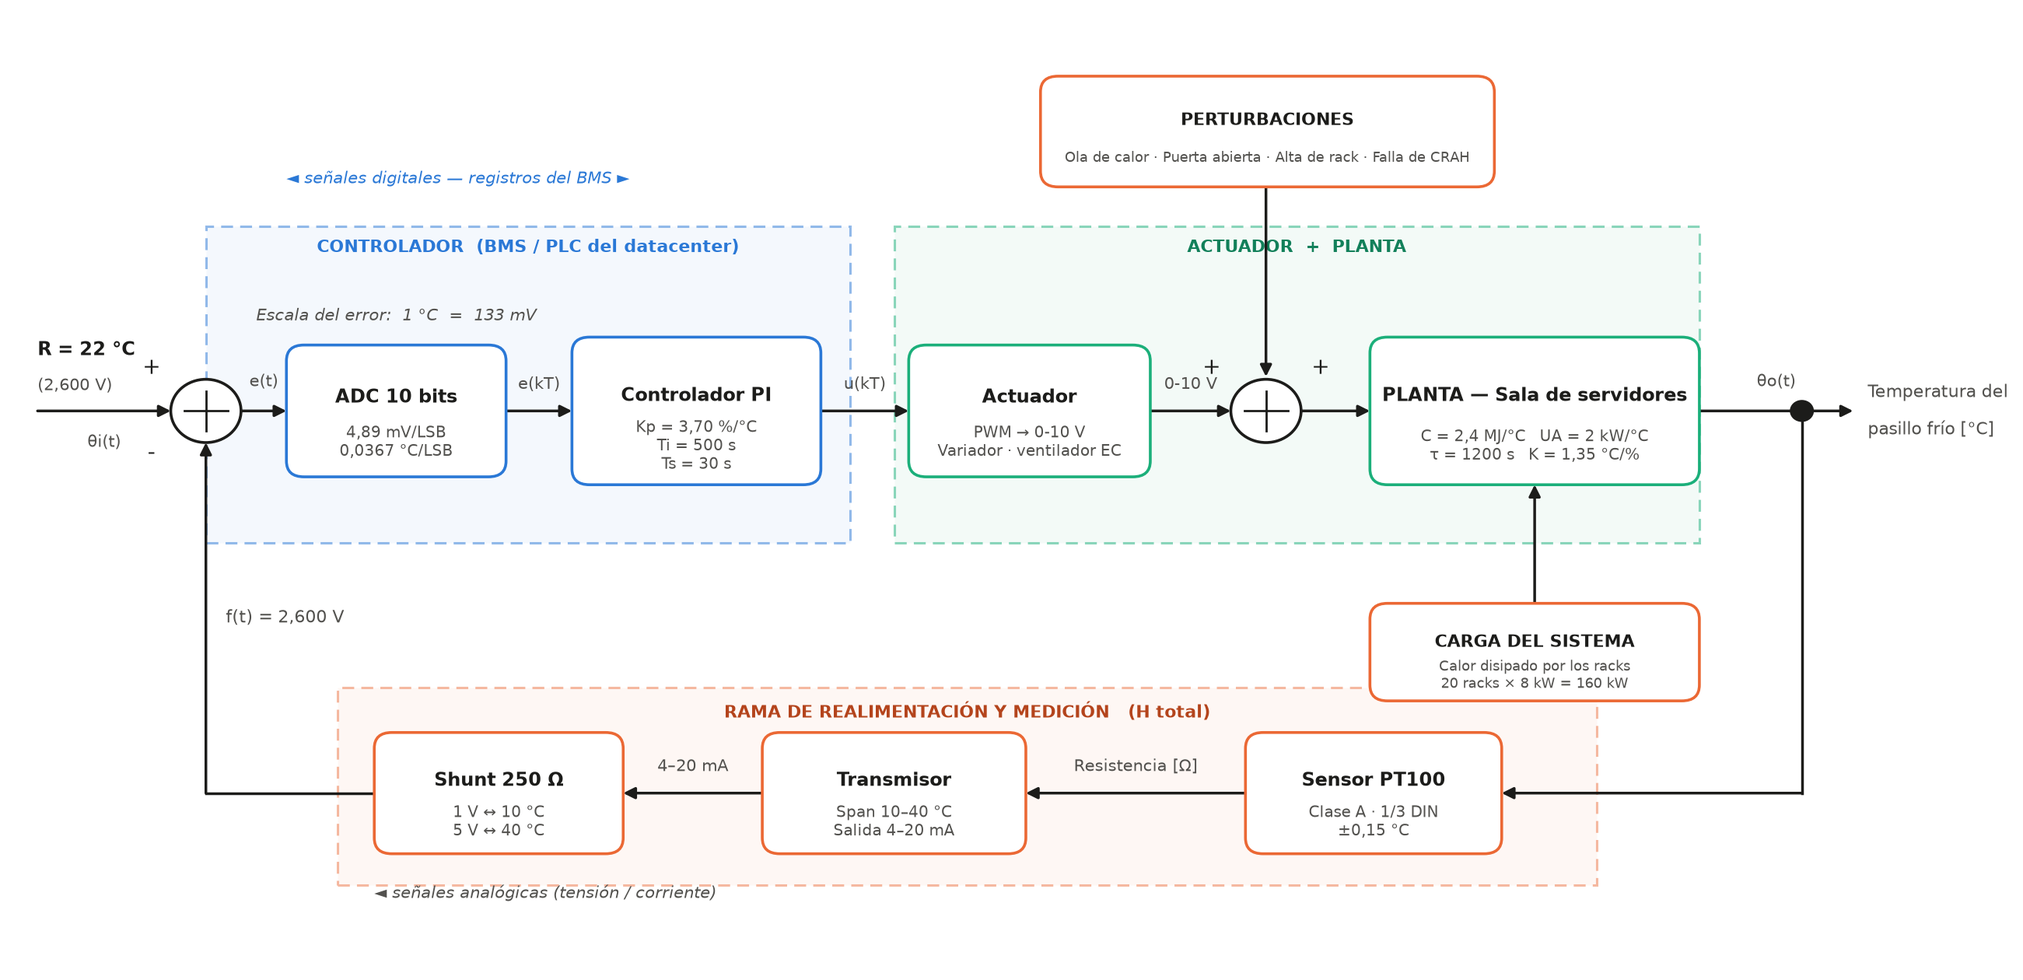
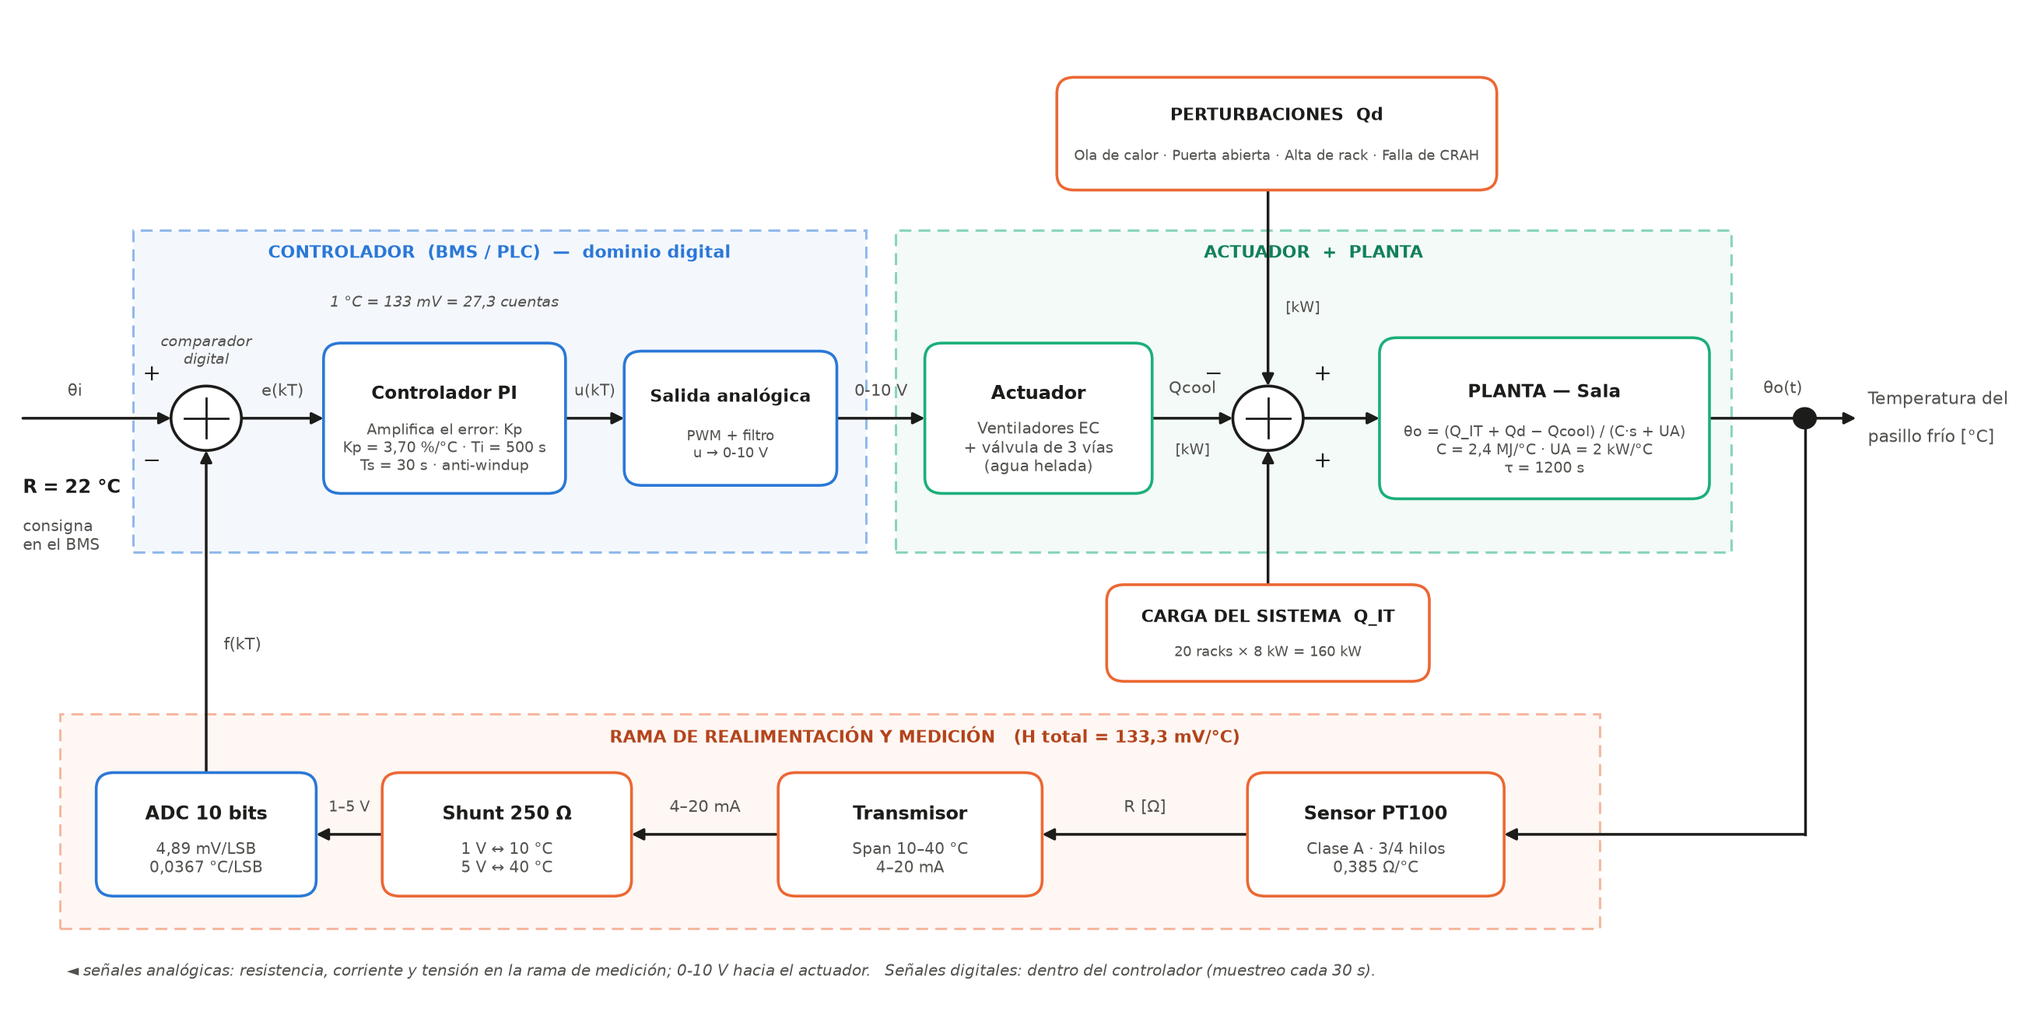
Correcciones de la auditoría
- Zona de falla (fuera de 18-27 °C) en el tablero de control.
- Ensayos de sensibilidad: aporte del anti-windup y tiempo de entrada de la unidad N+1.
- Diagrama de bloques con comparador digital, actuador sin variador y balance en kW.
- README actualizado.

diff --git a/diagrama_bloques.py b/diagrama_bloques.py
@@ -1,5 +1,6 @@
 """Diagrama de bloques del sistema de control termico de la sala de servidores."""
 
+import os
 import matplotlib
 matplotlib.use("Agg")
 import matplotlib.pyplot as plt
@@ -15,9 +16,9 @@ FONDO_CTRL = "#eaf2fc"
 FONDO_PROC = "#e9f7f1"
 FONDO_MED = "#fdeee7"
 
-fig, ax = plt.subplots(figsize=(13.2, 6.4), dpi=200)
+fig, ax = plt.subplots(figsize=(13.2, 6.6), dpi=200)
 ax.set_xlim(0, 132)
-ax.set_ylim(-2, 70)
+ax.set_ylim(-3, 70)
 ax.axis("off")
 
 
@@ -25,9 +26,9 @@ def bloque(x, y, w, h, texto, sub="", fondo="white", borde=BORDE, fs=8.5):
     ax.add_patch(FancyBboxPatch((x, y), w, h, boxstyle="round,pad=0,rounding_size=1.2",
                                 linewidth=1.3, edgecolor=borde, facecolor=fondo, zorder=3))
     if sub:
-        ax.text(x + w / 2, y + h * 0.60, texto, ha="center", va="center",
+        ax.text(x + w / 2, y + h * 0.66, texto, ha="center", va="center",
                 fontsize=fs, color=TINTA, zorder=4, weight="bold")
-        ax.text(x + w / 2, y + h * 0.26, sub, ha="center", va="center",
+        ax.text(x + w / 2, y + h * 0.30, sub, ha="center", va="center",
                 fontsize=fs - 1.4, color=GRIS, zorder=4)
     else:
         ax.text(x + w / 2, y + h / 2, texto, ha="center", va="center",
@@ -35,7 +36,8 @@ def bloque(x, y, w, h, texto, sub="", fondo="white", borde=BORDE, fs=8.5):
     return (x, y, w, h)
 
 
-def suma(x, y, r=2.4, signos=(("+", -1, 1), ("-", -1, -1))):
+def suma(x, y, signos, r=2.4):
+    """signos: lista de (signo, dx, dy) con la posicion relativa de cada signo."""
     ax.add_patch(Circle((x, y), r, linewidth=1.3, edgecolor=TINTA,
                         facecolor="white", zorder=4))
     ax.plot([x - r * 0.62, x + r * 0.62], [y, y], color=TINTA, lw=1.0, zorder=5)
@@ -47,116 +49,123 @@ def suma(x, y, r=2.4, signos=(("+", -1, 1), ("-", -1, -1))):
 
 
 def flecha(p0, p1, color=TINTA, etiqueta="", et_dy=1.8, et_dx=0.0, fs=7.6,
-           estilo="-|>", ls="-", et_color=None):
+           estilo="-|>", et_color=None, ha="center"):
     ax.add_patch(FancyArrowPatch(p0, p1, arrowstyle=estilo, mutation_scale=11,
                                  linewidth=1.25, color=color, zorder=2,
-                                 linestyle=ls, shrinkA=0, shrinkB=0))
+                                 shrinkA=0, shrinkB=0))
     if etiqueta:
         mx, my = (p0[0] + p1[0]) / 2 + et_dx, (p0[1] + p1[1]) / 2 + et_dy
-        ax.text(mx, my, etiqueta, ha="center", va="center", fontsize=fs,
+        ax.text(mx, my, etiqueta, ha=ha, va="center", fontsize=fs,
                 color=et_color or GRIS, zorder=5)
 
 
-def linea(p0, p1, color=TINTA, ls="-"):
-    ax.plot([p0[0], p1[0]], [p0[1], p1[1]], color=color, lw=1.25, zorder=2, ls=ls)
+def linea(p0, p1, color=TINTA):
+    ax.plot([p0[0], p1[0]], [p0[1], p1[1]], color=color, lw=1.25, zorder=2)
 
 
 # ---------------------------------------------------------------- agrupadores
-ax.add_patch(Rectangle((13, 30), 44, 24, linewidth=1.1, edgecolor=AZUL,
+ax.add_patch(Rectangle((8, 30), 50, 24, linewidth=1.1, edgecolor=AZUL,
                        facecolor=FONDO_CTRL, alpha=0.5, zorder=0, ls=(0, (5, 3))))
-ax.text(35, 52.4, "CONTROLADOR  (BMS / PLC del datacenter)", ha="center", va="center",
+ax.text(33, 52.3, "CONTROLADOR  (BMS / PLC)  —  dominio digital", ha="center", va="center",
         fontsize=8, color=AZUL, weight="bold", zorder=1)
 
-ax.add_patch(Rectangle((60, 30), 55, 24, linewidth=1.1, edgecolor=AGUA,
+ax.add_patch(Rectangle((60, 30), 57, 24, linewidth=1.1, edgecolor=AGUA,
                        facecolor=FONDO_PROC, alpha=0.5, zorder=0, ls=(0, (5, 3))))
-ax.text(87.5, 52.4, "ACTUADOR  +  PLANTA", ha="center", va="center",
+ax.text(88.5, 52.3, "ACTUADOR  +  PLANTA", ha="center", va="center",
         fontsize=8, color="#12805a", weight="bold", zorder=1)
 
-ax.add_patch(Rectangle((22, 4), 86, 15, linewidth=1.1, edgecolor=NARANJA,
+ax.add_patch(Rectangle((3, 2), 105, 16, linewidth=1.1, edgecolor=NARANJA,
                        facecolor=FONDO_MED, alpha=0.45, zorder=0, ls=(0, (5, 3))))
-ax.text(65, 17.2, "RAMA DE REALIMENTACIÓN Y MEDICIÓN   (H total)", ha="center", va="center",
-        fontsize=8, color="#b4441c", weight="bold", zorder=1)
+ax.text(62, 16.3, "RAMA DE REALIMENTACIÓN Y MEDICIÓN   (H total = 133,3 mV/°C)",
+        ha="center", va="center", fontsize=8, color="#b4441c", weight="bold", zorder=1)
 
 # ---------------------------------------------------------------- lazo directo
 y = 40.0
 
-ax.text(1.5, y + 4.6, "R = 22 °C", ha="left", va="center", fontsize=8.5,
+ax.text(0.5, y - 5.2, "R = 22 °C", ha="left", va="center", fontsize=8.5,
         color=TINTA, weight="bold")
-ax.text(1.5, y + 1.9, "(2,600 V)", ha="left", va="center", fontsize=7.6, color=GRIS)
-flecha((1.5, y), (10.6, y), etiqueta="θi(t)", et_dy=-2.4)
+ax.text(0.5, y - 8.8, "consigna\nen el BMS", ha="left", va="center", fontsize=7.2, color=GRIS)
+flecha((0.5, y), (10.6, y), etiqueta="θi", et_dy=2.0, et_dx=-1.5)
 
-sx, sy = suma(13.0, y)
+suma(13.0, y, signos=(("+", -1, 1), ("−", -1, -1)))
+ax.text(13.0, y + 5.0, "comparador\ndigital", ha="center", va="center", fontsize=6.8,
+        color=GRIS, style="italic")
 
-flecha((15.4, y), (18.5, y), etiqueta="e(t)", et_dy=2.2)
-ax.text(26.0, y + 7.2, "Escala del error:  1 °C  =  133 mV", ha="center",
-        va="center", fontsize=7.4, color=GRIS, style="italic")
+flecha((15.4, y), (21.0, y), etiqueta="e(kT)", et_dy=2.0)
 
-bloque(18.5, y - 5.0, 15.0, 10.0, "ADC 10 bits", "4,89 mV/LSB\n0,0367 °C/LSB",
-       fondo="white", borde=AZUL)
-flecha((33.5, y), (38.0, y), etiqueta="e(kT)", et_dy=2.0)
+bloque(21.0, y - 5.6, 16.5, 11.2, "Controlador PI",
+       "Amplifica el error: Kp\nKp = 3,70 %/°C · Ti = 500 s\nTs = 30 s · anti-windup",
+       fondo="white", borde=AZUL, fs=8.3)
+ax.text(29.25, y + 8.6, "1 °C = 133 mV = 27,3 cuentas", ha="center", va="center",
+        fontsize=6.8, color=GRIS, style="italic")
 
-bloque(38.0, y - 5.6, 17.0, 11.2, "Controlador PI", "Kp = 3,70 %/°C\nTi = 500 s\nTs = 30 s",
-       fondo="white", borde=AZUL, fs=8.5)
-flecha((55.0, y), (61.0, y), etiqueta="u(kT)", et_dy=2.0)
+flecha((37.5, y), (41.5, y), etiqueta="u(kT)", et_dy=2.0, fs=7.2)
 
-bloque(61.0, y - 5.0, 16.5, 10.0, "Actuador", "PWM → 0-10 V\nVariador · ventilador EC",
-       fondo="white", borde=AGUA)
-flecha((77.5, y), (83.0, y), etiqueta="0-10 V", et_dy=2.0)
+bloque(41.5, y - 5.0, 14.5, 10.0, "Salida analógica", "PWM + filtro\nu → 0-10 V",
+       fondo="white", borde=AZUL, fs=8.0)
 
-# punto suma de las perturbaciones sobre la planta
-px, py = suma(85.4, y, signos=(("+", -1, 1), ("+", 1, 1)))
-flecha((85.4, y + 17.0), (85.4, y + 2.6))
-bloque(70.0, y + 17.0, 31.0, 8.4, "PERTURBACIONES",
+flecha((56.0, y), (62.0, y), etiqueta="0-10 V", et_dy=2.0)
+
+bloque(62.0, y - 5.6, 15.5, 11.2, "Actuador",
+       "Ventiladores EC\n+ válvula de 3 vías\n(agua helada)", fondo="white", borde=AGUA)
+
+flecha((77.5, y), (83.0, y), etiqueta="Qcool", et_dy=2.2)
+ax.text(80.25, y - 2.4, "[kW]", ha="center", va="center", fontsize=6.8, color=GRIS)
+
+# punto suma del balance termico (en kW)
+suma(85.4, y, signos=(("−", -1, 1), ("+", 1, 1), ("+", 1, -1)))
+
+bloque(71.0, y + 17.0, 30.0, 8.4, "PERTURBACIONES  Qd",
        "Ola de calor · Puerta abierta · Alta de rack · Falla de CRAH",
        fondo="white", borde=NARANJA, fs=8.0)
+flecha((85.4, y + 17.0), (85.4, y + 2.4), etiqueta="[kW]", et_dx=1.2, et_dy=-1.5,
+       fs=6.8, ha="left")
 
-flecha((87.8, y), (92.5, y))
+bloque(74.4, y - 19.6, 22.0, 7.2, "CARGA DEL SISTEMA  Q_IT",
+       "20 racks × 8 kW = 160 kW", fondo="white", borde=NARANJA, fs=7.8)
+flecha((85.4, y - 12.4), (85.4, y - 2.4))
 
-bloque(92.5, y - 5.6, 22.5, 11.2, "PLANTA — Sala de servidores",
-       "C = 2,4 MJ/°C   UA = 2 kW/°C\nτ = 1200 s   K = 1,35 °C/%",
-       fondo="white", borde=AGUA, fs=8.5)
+flecha((87.8, y), (93.0, y))
+
+bloque(93.0, y - 6.0, 22.5, 12.0, "PLANTA — Sala",
+       "θo = (Q_IT + Qd − Qcool) / (C·s + UA)\nC = 2,4 MJ/°C · UA = 2 kW/°C\nτ = 1200 s",
+       fondo="white", borde=AGUA, fs=8.4)
 
 # salida
-flecha((115.0, y), (125.5, y), etiqueta="θo(t)", et_dy=2.2)
-ax.text(126.5, y + 1.4, "Temperatura del", ha="left", va="center", fontsize=7.8, color=GRIS)
-ax.text(126.5, y - 1.4, "pasillo frío [°C]", ha="left", va="center", fontsize=7.8, color=GRIS)
-
-# ---------------------------------------------------------------- carga
-bloque(92.5, y - 22.0, 22.5, 7.4, "CARGA DEL SISTEMA",
-       "Calor disipado por los racks\n20 racks × 8 kW = 160 kW", fondo="white",
-       borde=NARANJA, fs=8.0)
-# La carga (calor de los racks) ingresa a la planta: la flecha apunta hacia la sala.
-flecha((103.75, y - 14.6), (103.75, y - 5.6), estilo="-|>")
+flecha((115.5, y), (125.5, y), etiqueta="θo(t)", et_dy=2.2)
+ax.text(126.3, y + 1.4, "Temperatura del", ha="left", va="center", fontsize=7.8, color=GRIS)
+ax.text(126.3, y - 1.4, "pasillo frío [°C]", ha="left", va="center", fontsize=7.8, color=GRIS)
 
 # ---------------------------------------------------------------- realimentación
-yf = 11.0
+yf = 9.0
 linea((122.0, y), (122.0, yf))
 ax.add_patch(Circle((122.0, y), 0.75, color=TINTA, zorder=5))
 flecha((122.0, yf), (101.5, yf))
 
-bloque(84.0, yf - 4.6, 17.5, 9.2, "Sensor PT100", "Clase A · 1/3 DIN\n±0,15 °C",
+bloque(84.0, yf - 4.6, 17.5, 9.2, "Sensor PT100", "Clase A · 3/4 hilos\n0,385 Ω/°C",
        fondo="white", borde=NARANJA)
-flecha((84.0, yf), (69.0, yf), etiqueta="Resistencia [Ω]", et_dy=2.0)
+flecha((84.0, yf), (70.0, yf), etiqueta="R [Ω]", et_dy=2.0)
 
-bloque(51.0, yf - 4.6, 18.0, 9.2, "Transmisor", "Span 10–40 °C\nSalida 4–20 mA",
+bloque(52.0, yf - 4.6, 18.0, 9.2, "Transmisor", "Span 10–40 °C\n4–20 mA",
        fondo="white", borde=NARANJA)
-flecha((51.0, yf), (41.5, yf), etiqueta="4–20 mA", et_dy=2.0)
+flecha((52.0, yf), (42.0, yf), etiqueta="4–20 mA", et_dy=2.0)
 
-bloque(24.5, yf - 4.6, 17.0, 9.2, "Shunt 250 Ω", "1 V ↔ 10 °C\n5 V ↔ 40 °C",
+bloque(25.0, yf - 4.6, 17.0, 9.2, "Shunt 250 Ω", "1 V ↔ 10 °C\n5 V ↔ 40 °C",
        fondo="white", borde=NARANJA)
+flecha((25.0, yf), (20.5, yf), etiqueta="1–5 V", et_dy=2.0, fs=7.0)
 
-linea((24.5, yf), (13.0, yf))
-flecha((13.0, yf), (13.0, y - 2.4), etiqueta="f(t) = 2,600 V", et_dy=0, et_dx=5.4,
-       fs=7.8)
+bloque(5.5, yf - 4.6, 15.0, 9.2, "ADC 10 bits", "4,89 mV/LSB\n0,0367 °C/LSB",
+       fondo="white", borde=AZUL)
+flecha((13.0, yf + 4.6), (13.0, y - 2.4), etiqueta="f(kT)", et_dx=1.2, et_dy=-2.5,
+       fs=7.6, ha="left")
 
 # leyenda de dominios
-ax.text(24.5, yf - 7.6, "◄ señales analógicas (tensión / corriente)", ha="left",
-        va="center", fontsize=7.6, color=GRIS, style="italic")
-ax.text(18.5, 57.6, "◄ señales digitales — registros del BMS ►", ha="left",
-        va="center", fontsize=7.6, color=AZUL, style="italic")
+ax.text(3.5, -1.2, "◄ señales analógicas: resistencia, corriente y tensión en la rama de "
+        "medición; 0-10 V hacia el actuador.   Señales digitales: dentro del controlador "
+        "(muestreo cada 30 s).", ha="left", va="center", fontsize=7.2, color=GRIS,
+        style="italic")
 
 fig.tight_layout()
-import os
 fig.savefig(os.path.join(os.path.dirname(os.path.abspath(__file__)), "g0_diagrama_bloques.png"),
             bbox_inches="tight", facecolor="white")
 print("OK")

diff --git a/simulacion_crah.py b/simulacion_crah.py
@@ -42,7 +42,7 @@ C_TERM = 2.4e6         # Capacidad termica efectiva de la sala [J/C] (aire + rac
 UA = 2.0e3             # Conductancia hacia el resto del edificio [W/C]
 Q_IT_NOM = 160e3       # Carga termica IT nominal [W] = 20 racks x 8 kW
 Q_COOL_MAX = 270e3     # Capacidad frigorifica activa [W] = 3 CRAH x 90 kW (+1 en reserva N+1)
-T_AMB_NOM = 25.0       # Temperatura del recinto contiguo / plenum de retorno [C]
+T_AMB_NOM = 25.0       # Temperatura del entorno de la sala (recintos contiguos) [C]
 T_INICIAL = 26.5       # Temperatura inicial de la sala [C]
 
 # TAU = C/UA = 1200 s ; ganancia estatica respecto de u: K = Q_COOL_MAX/(100*UA)
@@ -85,7 +85,11 @@ def cuantizar(v):
     return codigo, codigo * V_REF_ADC / niveles
 
 
-def zona(err_abs):
+def zona(err_abs, t_med=None):
+    """Zona de operacion (Tabla 2). La zona de falla depende de la temperatura medida:
+    fuera del rango recomendado ASHRAE (18-27 C), sin importar el error."""
+    if t_med is not None and not (ASHRAE_MIN <= t_med <= ASHRAE_MAX):
+        return "ZONA DE FALLA"
     if err_abs <= BANDA_NORMAL:
         return "NORMALIDAD"
     if err_abs <= BANDA_ALARMA:
@@ -101,17 +105,19 @@ T_OLA_CALOR = 2700.0    # 45 min
 T_ALTA_RACK = 6000.0    # 100 min
 T_PUERTA = 9000.0       # 150 min
 T_FALLA_CRAH = 11400.0  # 190 min
+T_CONMUTACION_N1 = 300.0  # Tiempo hasta que entra en servicio la unidad de reserva N+1 [s]
 
 
-def perturbaciones(t):
+def perturbaciones(t, t_conmutacion=T_CONMUTACION_N1):
     """Devuelve (T_amb, Q_extra_IT, Q_cool_max_disponible) para el instante t [s]."""
     t_amb = T_AMB_NOM
     q_extra = 0.0
     factor_capacidad = 1.0
     unidades = 3.0
 
-    # (a) EXTERNA - Ola de calor: la temperatura exterior sube 13 C en rampa de 10 min.
-    #     Ademas degrada el intercambio en el condensador: -12 % de capacidad frigorifica.
+    # (a) EXTERNA - Ola de calor: el calor exterior eleva 13 C la temperatura del entorno
+    #     de la sala (T_amb, 25 -> 38 C) en rampa de 10 min. Ademas degrada el
+    #     intercambio en el condensador: -12 % de capacidad frigorifica.
     if t >= T_OLA_CALOR:
         avance = min(1.0, (t - T_OLA_CALOR) / 600.0)
         t_amb = T_AMB_NOM + 13.0 * avance
@@ -125,9 +131,9 @@ def perturbaciones(t):
     if T_PUERTA <= t < T_PUERTA + 90.0:
         q_extra += 25e3
 
-    # (d) INTERNA - Falla de 1 de los 3 CRAH durante 300 s, hasta que arranca la
-    #     unidad redundante N+1.
-    if T_FALLA_CRAH <= t < T_FALLA_CRAH + 300.0:
+    # (d) INTERNA - Falla de 1 de los 3 CRAH hasta que arranca la unidad redundante N+1
+    #     (t_conmutacion segundos despues de la falla).
+    if T_FALLA_CRAH <= t < T_FALLA_CRAH + t_conmutacion:
         unidades = 2.0
 
     q_max = Q_COOL_MAX * factor_capacidad * (unidades / 3.0)
@@ -138,8 +144,14 @@ def perturbaciones(t):
 # 3. LAZO DE CONTROL
 # ----------------------------------------------------------------------------
 
-def simular(semilla=7, con_integral=True):
-    """con_integral=False -> controlador solo Proporcional con bias (para comparar)."""
+def simular(semilla=7, con_integral=True, anti_windup=True, t_conmutacion_n1=T_CONMUTACION_N1):
+    """Simula el ensayo completo.
+
+    con_integral=False -> controlador solo Proporcional, con una polarizacion fija (bias)
+                          igual a la senal que requiere el punto de operacion nominal.
+    anti_windup=False  -> el integrador sigue acumulando aunque el actuador sature.
+    t_conmutacion_n1   -> segundos que tarda en entrar la unidad de reserva tras la falla.
+    """
     rng = np.random.default_rng(semilla)
 
     n = int(T_FINAL / DT) + 1
@@ -171,7 +183,7 @@ def simular(semilla=7, con_integral=True):
 
     for k in range(n):
         t = tiempo[k]
-        t_amb, q_extra, q_max = perturbaciones(t)
+        t_amb, q_extra, q_max = perturbaciones(t, t_conmutacion_n1)
 
         # Carga IT: nominal + perturbaciones + fluctuacion del uso de CPU (sigma = 2.5 %)
         eta = rho * eta + np.sqrt(1.0 - rho ** 2) * rng.standard_normal()
@@ -181,13 +193,14 @@ def simular(semilla=7, con_integral=True):
 
         # --- Ciclo de scan del controlador (cada TS segundos) ---
         if abs(t % TS) < DT / 2.0:
-            # Medicion: sensor -> transmisor -> shunt -> ADC
+            # Medicion: sensor -> transmisor -> shunt -> ADC (se digitaliza la medicion)
             t_sensada = temp[k] + SIGMA_SENSOR * rng.standard_normal()
             v_sensada = temp_a_volt(t_sensada)
             _, v_adc = cuantizar(v_sensada)
             t_med = volt_a_temp(v_adc)
 
-            e = R_TEMP - t_med          # Senal de error [C]
+            # Comparador digital: la consigna es un parametro del BMS
+            e = R_TEMP - t_med          # Senal de error e(kT) [C]
 
             # PI de accion inversa: la planta tiene ganancia negativa respecto de u.
             u_p = -KP * e
@@ -195,7 +208,7 @@ def simular(semilla=7, con_integral=True):
             u_tent = u_p + integral_tent
 
             # Anti-windup por clamping: solo se integra si la salida no satura.
-            if con_integral and U_MIN <= u_tent <= U_MAX:
+            if con_integral and (not anti_windup or U_MIN <= u_tent <= U_MAX):
                 integral = integral_tent
             u_actual = float(np.clip(u_p + integral, U_MIN, U_MAX))
         else:
@@ -219,7 +232,7 @@ def simular(semilla=7, con_integral=True):
                 f"t={int(t):5d}s | T={temp[k]:6.2f}C | Vmed={temp_a_volt(t_med):5.3f}V | "
                 f"e={e:+6.2f}C ({e * (V_MAX - V_MIN) / (T_SPAN_MAX - T_SPAN_MIN) * 1000:+7.1f} mV) | "
                 f"u={u_actual:6.2f}% | Qcool={q_refrig / 1000:6.1f}kW | "
-                f"Qit={q_it / 1000:6.1f}kW | {zona(abs(e))}"
+                f"Qit={q_it / 1000:6.1f}kW | {zona(abs(e), t_med)}"
             )
 
     return dict(t=tiempo, temp=temp, temp_med=temp_medida, error=error, u=u,
@@ -441,7 +454,8 @@ def tiempo_real(r, velocidad=120.0):
 
         e = r["error"][k]
         panel.set_text(f"t = {r['t'][k] / 60.0:6.1f} min   T = {r['temp'][k]:5.2f} °C   "
-                       f"e = {e:+5.2f} °C   u = {r['u'][k]:5.1f} %   {zona(abs(e))}")
+                       f"e = {e:+5.2f} °C   u = {r['u'][k]:5.1f} %   "
+                       f"{zona(abs(e), r['temp_med'][k])}")
 
         if t_sim >= T_FINAL:
             anim.event_source.stop()
@@ -533,3 +547,23 @@ if __name__ == "__main__":
     print(f"Tiempo fuera del rango recomendado ASHRAE    : "
           f"{100*np.mean((r['temp']>ASHRAE_MAX)|(r['temp']<ASHRAE_MIN)):.1f} % del ensayo")
     print(f"u maxima                                     : {np.max(r['u']):.1f} %")
+
+    # --- Aporte del anti-windup (falla de CRAH) ---
+    r_nw = simular(anti_windup=False)
+    tras_n1 = r["t"] > T_FALLA_CRAH + T_CONMUTACION_N1
+    print()
+    print("=" * 96)
+    print("ENSAYOS DE SENSIBILIDAD")
+    print("=" * 96)
+    print(f"Minimo tras la falla de CRAH, con anti-windup : {np.min(r['temp'][tras_n1]):.2f} C")
+    print(f"Minimo tras la falla de CRAH, sin anti-windup : {np.min(r_nw['temp'][tras_n1]):.2f} C")
+
+    # --- Tiempo de conmutacion de la unidad N+1 vs. pico de temperatura ---
+    print()
+    print("Tiempo de entrada de la N+1 -> pico de temperatura durante la falla")
+    tras_falla = r["t"] >= T_FALLA_CRAH
+    for t_c in (60, 120, 180, 240, 300):
+        rc = simular(t_conmutacion_n1=float(t_c))
+        pico = np.max(rc["temp"][tras_falla])
+        fuera = np.sum(rc["temp"][tras_falla] > ASHRAE_MAX) * DT
+        print(f"  {t_c:3d} s -> pico {pico:5.2f} C  (tiempo por encima de {ASHRAE_MAX:.0f} C: {fuera:.0f} s)")

diff --git a/README.md b/README.md
@@ -30,7 +30,7 @@ Este repositorio contiene el programa que simula y verifica el sistema de contro
 
 | Comando | Qué hace |
 |---|---|
-| `python simulacion_crah.py` | Ejecuta el ensayo completo de 4 horas. Imprime los parámetros del lazo, extractos del tablero de control y las métricas de desempeño. Genera `tablero_control.log` y los gráficos `g1` a `g5`. |
+| `python simulacion_crah.py` | Ejecuta el ensayo completo de 4 horas. Imprime los parámetros del lazo, extractos del tablero de control, las métricas de desempeño y dos ensayos de sensibilidad: el aporte del anti-windup y el pico de temperatura según cuánto tarde en entrar la unidad de reserva N+1. Genera `tablero_control.log` y los gráficos `g1` a `g5`. |
 | `python simulacion_crah.py --tiempo-real` | Reproduce el ensayo en tiempo acelerado. Los gráficos de temperatura, señal de control y balance térmico se actualizan en vivo, y el tablero se imprime en la consola en cada ciclo de scan (cada 30 s simulados). |
 | `python simulacion_crah.py --tiempo-real --velocidad 60` | Igual que el anterior, pero con 60 s simulados por cada segundo real. Por defecto son 120, de modo que el ensayo dura 2 minutos. |
 | `python diagrama_bloques.py` | Regenera el diagrama de bloques `g0_diagrama_bloques.png`. |
@@ -70,6 +70,8 @@ Resultados principales:
 | Tiempo fuera del rango ASHRAE (18-27 °C) | 0,2 % | 55 % |
 | Temperatura máxima | 27,3 °C | 32,6 °C |
 
+Con la conmutación actual de la reserva (5 min), la falla de una unidad lleva la sala a 27,3 °C durante 36 s. Si la unidad N+1 entra en menos de 4 minutos, el pico queda por debajo de 27 °C (26,3 °C a 4 min, 24,3 °C a 2 min).
+
 ## Modificar el ensayo
 
-Todos los parámetros están declarados como constantes al comienzo de `simulacion_crah.py`: consigna, capacidad instalada, sintonía del controlador (`TAU_LC`, `TI`, `TS`), cadena de medición y umbrales. Los instantes de las perturbaciones están en la sección 2 del archivo. La función `simular(con_integral=False)` reproduce el ensayo con control proporcional puro.
+Todos los parámetros están declarados como constantes al comienzo de `simulacion_crah.py`: consigna, capacidad instalada, sintonía del controlador (`TAU_LC`, `TI`, `TS`), cadena de medición y umbrales. Los instantes de las perturbaciones y el tiempo de entrada de la reserva (`T_CONMUTACION_N1`) están en la sección 2 del archivo. La función `simular()` acepta `con_integral=False` (control proporcional puro con polarización fija), `anti_windup=False` y `t_conmutacion_n1=<segundos>`.
